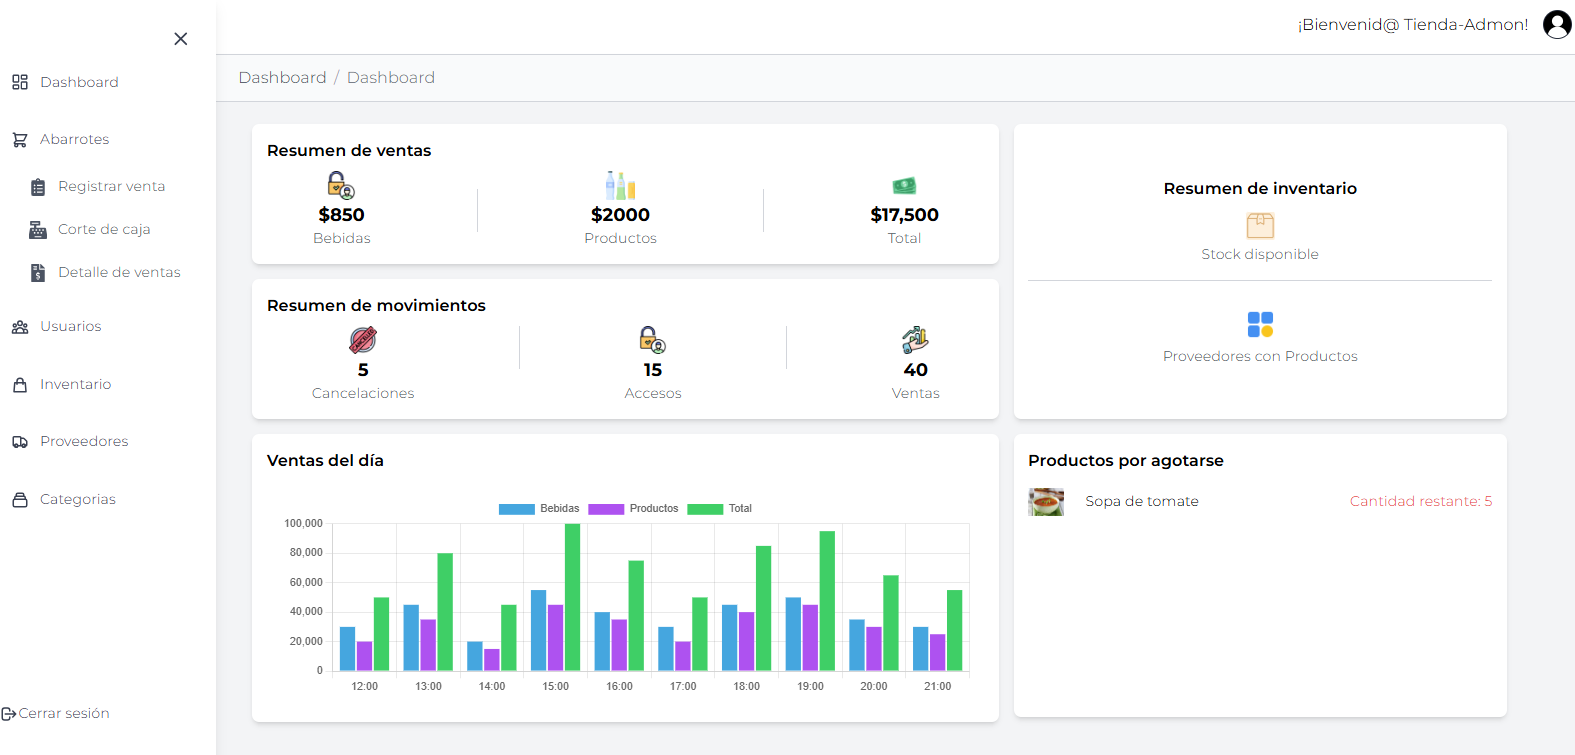
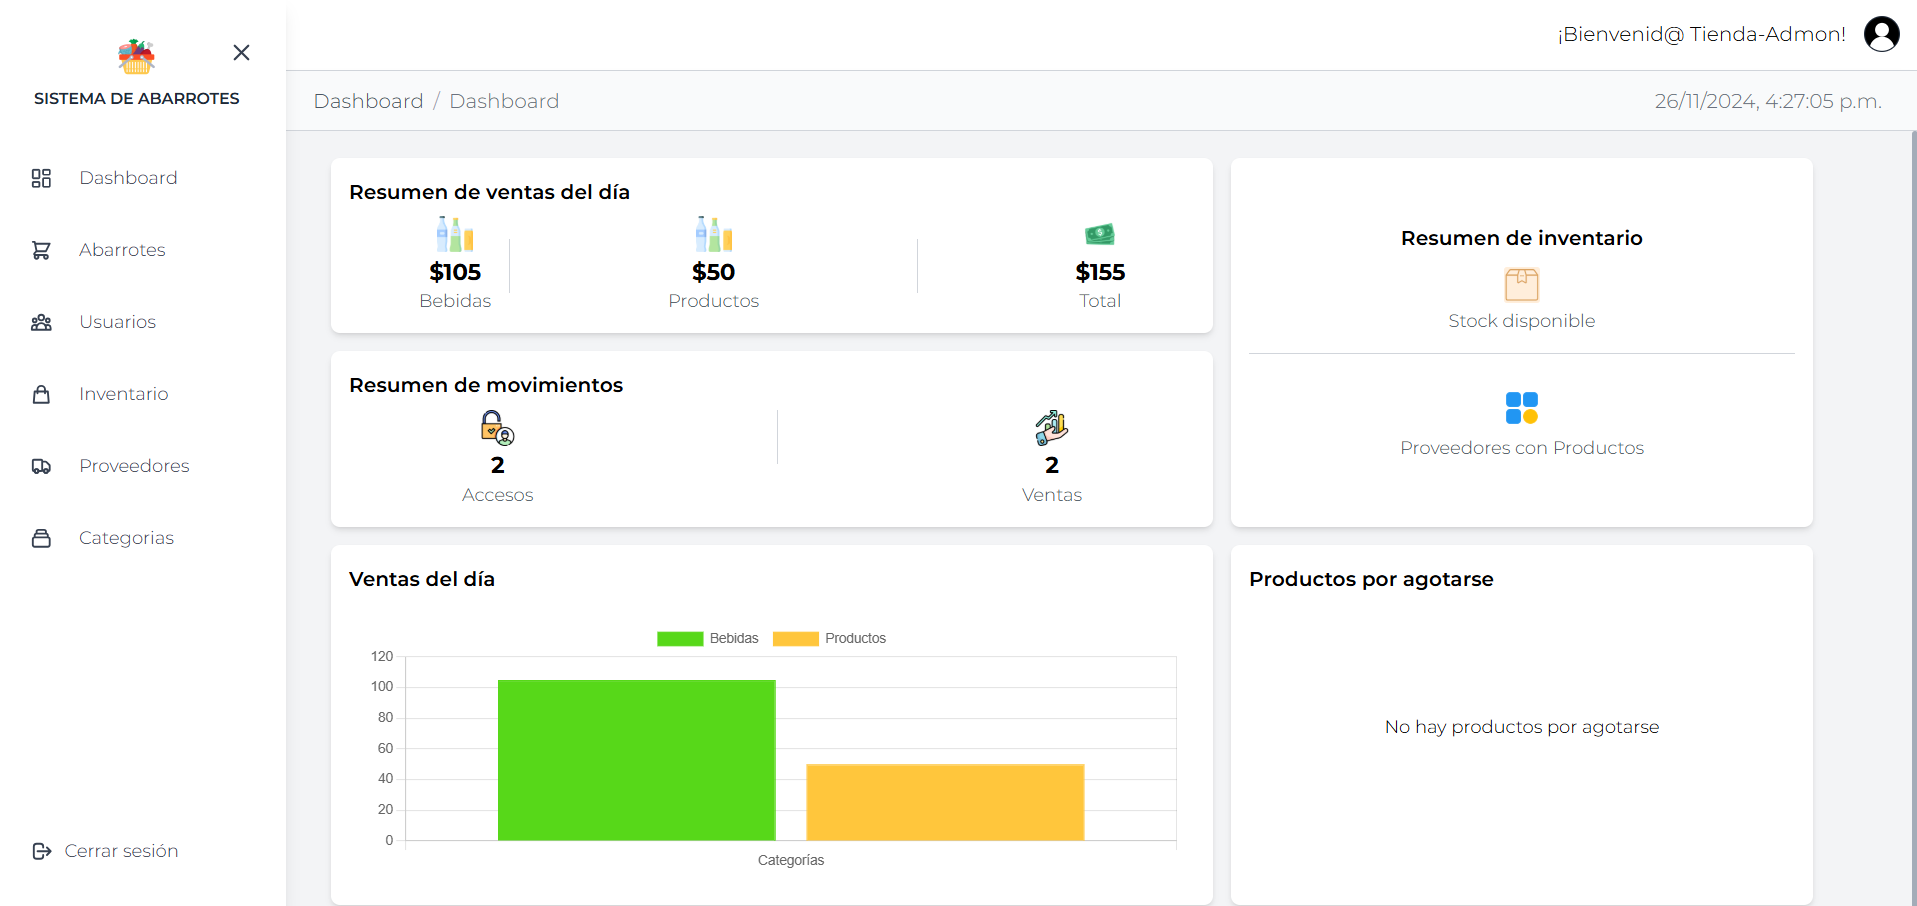
cambios

diff --git a/src/components/abarrotes/ModalCorte.tsx b/src/components/abarrotes/ModalCorte.tsx
@@ -1,4 +1,4 @@
-import React from "react";
+import React, { useState } from "react";
 import { FiX } from "react-icons/fi";
 import NotificationService from "../../modules/services/mensajes/notification_service";
 import BaseService from '../../modules/services/base_service';
@@ -23,6 +23,9 @@ const ModalCorte: React.FC<ModalCorteProps> = ({
   const today = new Date().toLocaleDateString("en-CA");
   const userid = UserStore((user) => user.id);
 
+  const [isPDFEnabled, setIsPDFEnabled] = useState(false);
+  
+
   if (!isOpen) return null;
 
   const HandleCorte = async () =>{
@@ -32,7 +35,7 @@ const ModalCorte: React.FC<ModalCorteProps> = ({
 
     if(results.success){
     NotificationService.showSuccess(results.message!);
-    onClose();
+    setIsPDFEnabled(true);
     } else{ 
     NotificationService.showError(results.message!)
     }
@@ -124,9 +127,17 @@ const ModalCorte: React.FC<ModalCorteProps> = ({
             </button>
             <button
               type="button"
-              onClick={() => {HandlePDF()}}
-              className="w-full text-white bg-purple-700 hover:bg-purple-800 font-medium rounded-lg text-sm px-5 py-2.5"
-            >
+              onClick={() => {
+                HandlePDF();
+              }}
+              disabled={!isPDFEnabled}
+              className={`w-full text-white ${
+                isPDFEnabled
+                  ? "bg-purple-700 hover:bg-purple-800"
+                  : "bg-gray-400 cursor-not-allowed"
+              } font-medium rounded-lg text-sm px-5 py-2.5`}
+            
+              >
               Ver PDF
             </button>
           </div>

diff --git a/src/components/usuarios/UsuariosModal.tsx b/src/components/usuarios/UsuariosModal.tsx
@@ -32,6 +32,8 @@ const UsuarioModal: React.FC<UsuariosModalProps> = ({
   const { enqueueSnackbar } = useSnackbar();
   const [showPassword, setShowPassword] = useState<boolean>(false);
   const [showConfirmPassword, setShowConfirmPassword] = useState<boolean>(false);
+  const [showCurrentPassword, setShowCurrentPassword] = useState(false);
+
 
 
   useEffect(() => {
@@ -191,6 +193,26 @@ const UsuarioModal: React.FC<UsuariosModalProps> = ({
               <option value="Administrador">Administrador</option>
               <option value="Empleado">Empleado</option>
             </select>
+          </div>
+          <div>
+          <label className="block text-sm font-medium">Contraseña actual</label>
+          <div className="relative">
+          <input
+          type={ showCurrentPassword ? "text" : "password" }
+          name="currentPassword"
+          value={formData.currentPassword}
+          onChange={handleChange}
+          className="w-full border rounded p-2"
+
+          />
+          <span
+            className="absolute right-2 top-1/2 transform -translate-y-1/2 cursor-pointer mr-4 text-gray-400 "
+            onClick={() => setShowCurrentPassword(!showCurrentPassword)}
+            >
+            {showCurrentPassword ? <FaEyeSlash /> : <FaEye />}
+            </span>
+
+          </div>
           </div>
           <div>
             <label className="block text-sm font-medium">Contraseña</label>

diff --git a/src/modules/views/abarrotes/compras.tsx b/src/modules/views/abarrotes/compras.tsx
@@ -141,9 +141,9 @@ const Compras: React.FC = () => {
       <Layout>
         <div className="flex flex-col md:flex-row justify-between p-4 bg-gray-100 min-h-screen">
         <div className="w-full md:w-2/3 bg-white p-6 rounded-lg shadow-md mb-4 md:mb-0">
-            <h1 className="text-xl font-semibold mb-4">Venta: {numeroVenta}</h1>
-            <p className="mb-2">Usuario: {usuario}</p>
-            <p className="mb-6 text-xl font-bold">Total: ${total.toFixed(2)}</p>
+            <h1 className="text-xl mb-4"><span className="font-semibold">Venta: </span> {numeroVenta}</h1>
+            <p className="mb-2"><span className="font-semibold">Usuario: </span> {usuario}</p>
+            <p className="mb-6 text-xl text-end"><span className="font-bold">Total: </span> ${total.toFixed(2)}</p>
 
             <div className="overflow-y-auto" style={{ maxHeight: '300px' }}>
             <table className="w-full border border-gray-300">

diff --git a/src/components/abarrotes/ModalCobro.tsx b/src/components/abarrotes/ModalCobro.tsx
@@ -41,6 +41,7 @@ const CobroModal: React.FC<CobroModalProps> = ({ isOpen, onClose, totalCuenta, p
     if(type === "efectivo"){
       setAmountTarjeta("0");
     } else{
+      setAmountTarjeta(totalCuenta.toString());
       setAmountEfectivo("0");
     }
   };
@@ -178,7 +179,7 @@ const handleConfirmar = async (e: React.FormEvent) => {
                   placeholder="Monto con tarjeta"
                   className="bg-gray-50 border border-gray-300 text-gray-900 text-sm rounded-lg block w-full p-3 mt-2"
                   disabled={paymentType === "efectivo"}
-                />
+                /> 
               </div>
             </div>
           </div>

diff --git a/src/components/layout/layout.tsx b/src/components/layout/layout.tsx
@@ -247,11 +247,13 @@ export default function Layout({ children }: LayoutProps) {
             isSidebarFull || isMobileMenuOpen ? "translate-x-4" : "translate-x-0"
           }`}
         >
+        <a href="/dashboard">
           <img 
           src={logotipo}
           alt="Logotipo"
+          
           className={`${(isSidebarFull || isMobileMenuOpen) ? "w-10 h-10" : "hidden"}`}
-          />
+          /> </a>
           {(isSidebarFull || isMobileMenuOpen) && (
             <span className="mt-2 text-gray-800 text-sm font-semibold text-center"
             >SISTEMA DE ABARROTES</span>

diff --git a/src/routes/global/Routes.tsx b/src/routes/global/Routes.tsx
@@ -89,9 +89,13 @@ export default function AppRoutes() {
         <Route
           path="/detalle-ventas"
           element={
-            <ProtectedRoute isAuthenticated={isAuthenticated}>
+            isAuthenticated && role !== "Empleado" ? (
+              <ProtectedRoute isAuthenticated={isAuthenticated}>
               <VentasHome />
             </ProtectedRoute>
+            ) : (
+              <Navigate to="/dashboard" replace />
+            )
           }
         />
         <Route

diff --git a/src/components/landingpage/Works.tsx b/src/components/landingpage/Works.tsx
@@ -116,7 +116,7 @@ const Works: React.FC = () => {
 
   return (
     <section id="works" className="p-8 xl:p-20 bg-gray-100 ">
-      <h2 className="text-3xl font-bold text-center mb-8">Cómo Funciona el Sistema</h2>
+      <h2 className="text-3xl font-bold text-center mb-8">¿Cómo funciona el sistema?</h2>
       <Swiper
         modules={[Navigation, Pagination, Autoplay]}
         spaceBetween={30}
